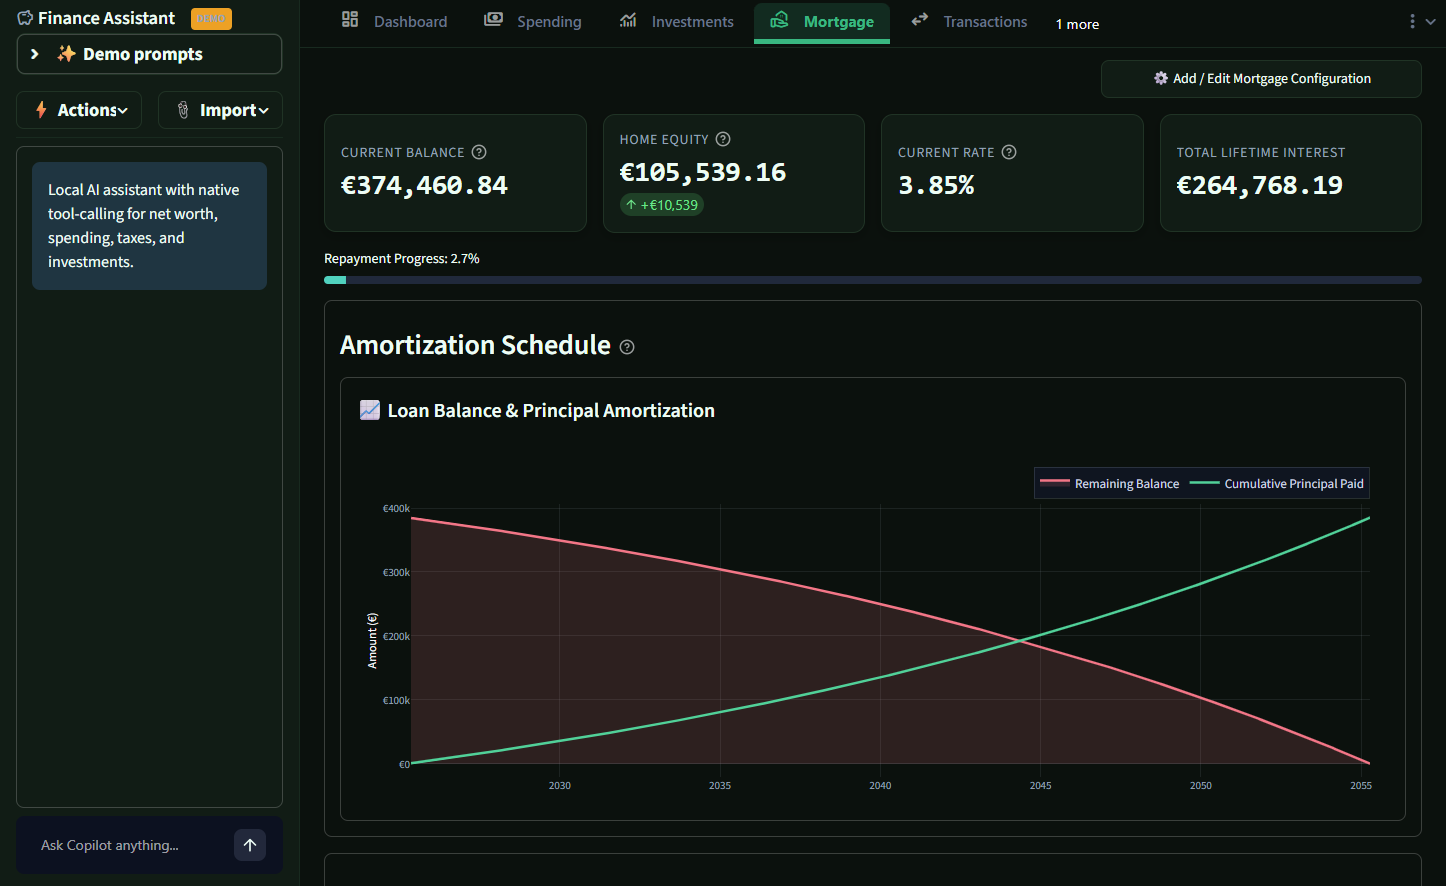
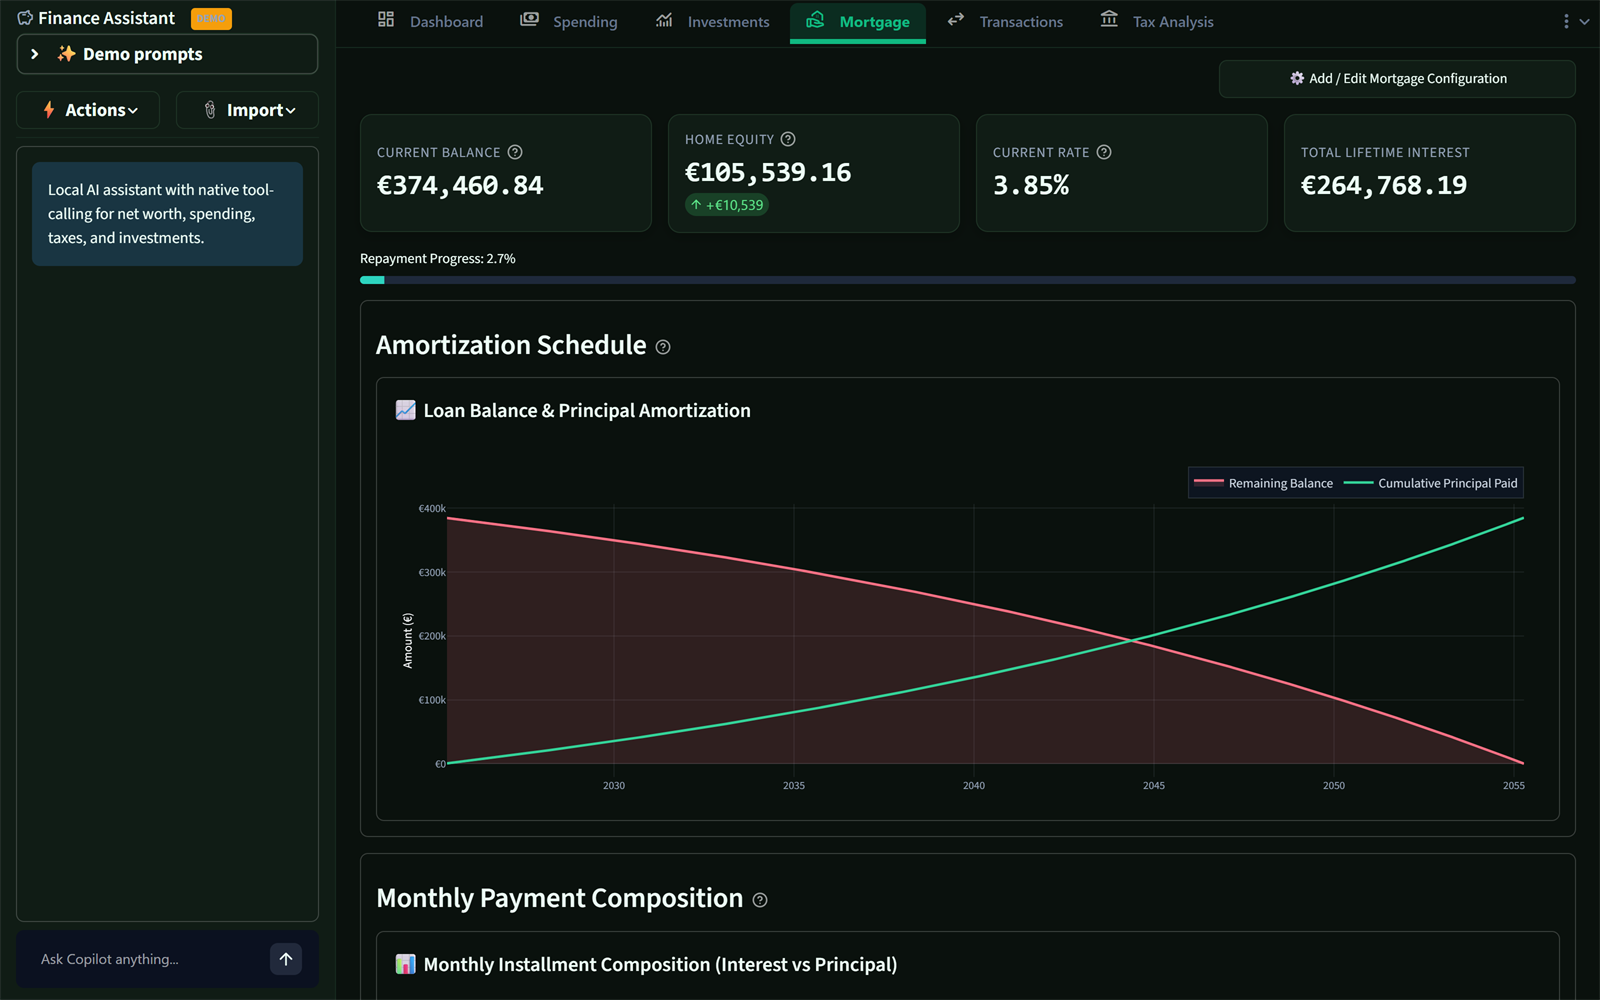
docs(readme): refresh demo-mode screenshots, add scrolled views and copilot showcase

diff --git a/README.md b/README.md
@@ -11,8 +11,8 @@
 
 <p align="center">
   <img src="docs/assets/screenshots/dashboard.png" width="32%" alt="Executive wealth dashboard" />
+  <img src="docs/assets/screenshots/copilot-chart.png" width="32%" alt="Offline AI Copilot building a chart" />
   <img src="docs/assets/screenshots/investments.png" width="32%" alt="Multi-asset portfolio allocation" />
-  <img src="docs/assets/screenshots/spending.png" width="32%" alt="Spending topology and cash flow" />
 </p>
 
 ---
@@ -115,35 +115,54 @@ $env:PFA_DEMO = "1"
 
 ## 📸 Application Visual Showcase
 
-All visuals are captured in **demo mode** (`PFA_DEMO=1`) with `Hide values` **OFF**, so tickers, balances, charts, and tables all read clearly. Demo mode also starts with `Hide values` OFF, and the one-click Privacy Shield still masks money only when you need it:
+Every visual below is captured live in **demo mode** (`PFA_DEMO=1`) with `Hide values` **off**, so tickers, balances, charts, and tables all read clearly. Toggle `Hide values` under the top-right **Options** menu at any time; the one-click Privacy Shield always masks money only, leaving tickers, merchants, counts, and percentages readable. Long pages are shown with an extra **scrolled-down** shot so no part of the workflow is cut off.
 
 ### 1. Executive Wealth Dashboard & Portfolio Exposure
-Comprehensive multi-asset overview tracking net worth trajectory, cash flow trends, account liquidity, and dynamic exposure treemaps:
+Net worth trajectory, cash-flow Sankey, glassmorphic exposure treemap, and the consolidated account grid — all on one screen:
 ![Dashboard Overview](docs/assets/screenshots/dashboard.png)
 
 ### 2. Spending Topology & Expense Breakdown
-Interactive donut charts, category-level cash flow drilldowns, and automated recurring subscription leak detection:
+Category donut, subscription leak detector, top-merchant ranking, and the 3-month burn-rate ribbon:
 ![Spending Breakdown](docs/assets/screenshots/spending.png)
 
+**Scrolled down** — category budget tracker with variance, plus the 12-month burn-rate trajectory projection:
+![Spending budget tracker and trajectory](docs/assets/screenshots/spending-detail.png)
+
 ### 3. Multi-Asset Portfolio Allocation & Drift Engine
-Swensen 5/25 threshold rebalancing monitor, dimension switchers (Asset Class, Currency, Geography, Sector), and live TradingView integration:
+Live holdings with per-position P&L, cost basis, weight, and 1-month trend sparklines, alongside the Swensen 5/25 rebalancing monitor:
 ![Investments & Rebalancing](docs/assets/screenshots/investments.png)
+
+**Scrolled down** — P&L contribution, sector day-move, and the realized profit & loss panel for closed positions:
+![Portfolio P&L and realized gains](docs/assets/screenshots/investments-detail.png)
 
 ### 4. Dutch Mortgage & Real Estate Modeler
 30-year amortization curve modeling (Annuity, Linear, Interest-Only), penalty-free prepayment simulator, and net home equity tracking:
 ![Mortgage Amortization](docs/assets/screenshots/mortgage.png)
+
+**Scrolled down** — monthly payment composition (interest vs. principal) and reconciliation of actual bank payments against the schedule:
+![Mortgage payment composition and actual payments](docs/assets/screenshots/mortgage-detail.png)
 
 ### 5. Transaction Ledger & Inline Categorization
 Searchable transaction records with multi-criteria filtering (date, account, category), sorting, and inline editing workflows:
 ![Transactions Ledger](docs/assets/screenshots/transactions.png)
 
 ### 6. Belastingdienst Tax Intelligence (Box 1 & Box 3)
-Dutch Box 1 income tax optimization, Box 3 wealth tax deemed yield calculation, and pension room (*Jaarruimte*) arbitrage modeling:
+Box 1 income tax with the 30% expat ruling and HRA, plus the Box 3 wealth-tax deemed-yield breakdown:
 ![Tax Analysis](docs/assets/screenshots/tax.png)
 
+**Scrolled down** — the 4-way AI capital allocation optimizer (Mortgage Prepayment vs. Jaarruimte vs. Groenfondsen vs. Taxable ETF) with 10-year net-wealth trajectories:
+![Tax Optimizer](docs/assets/screenshots/tax-optimizer.png)
+
 ### 7. Settings, Credentials Vault & Database Management
-Local SQLite database backups, API secrets vault, bank connections, and classification rules management:
+Bank/broker integrations, the encrypted API secrets vault, manual account management, and local SQLite backups:
 ![Settings & Backups](docs/assets/screenshots/settings.png)
+
+### 8. Copilot in Action
+The offline Ollama Copilot answers entirely inside the app with deterministic tool-calling — no cloud, no telemetry. Ask for your balances and it reports each ledger exactly as the dashboard shows it:
+![Copilot answering a question](docs/assets/screenshots/copilot-response.png)
+
+Ask for a metric and the Copilot renders an interactive Plotly chart directly in the chat from the tool result — here the 3-month burn-rate trajectory. The sidebar is dragged to its maximum width so the chart reads clearly:
+![Copilot creating a chart](docs/assets/screenshots/copilot-chart.png)
 
 ---
 
